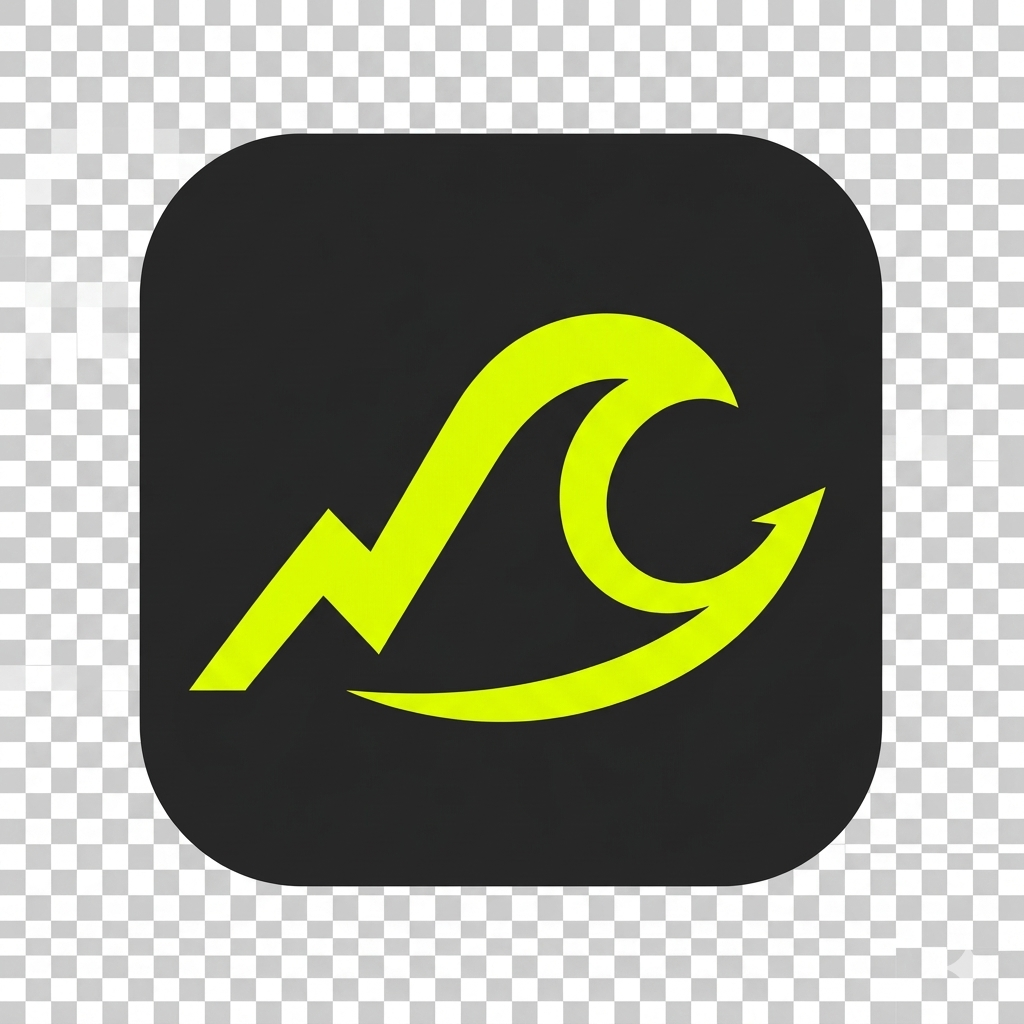
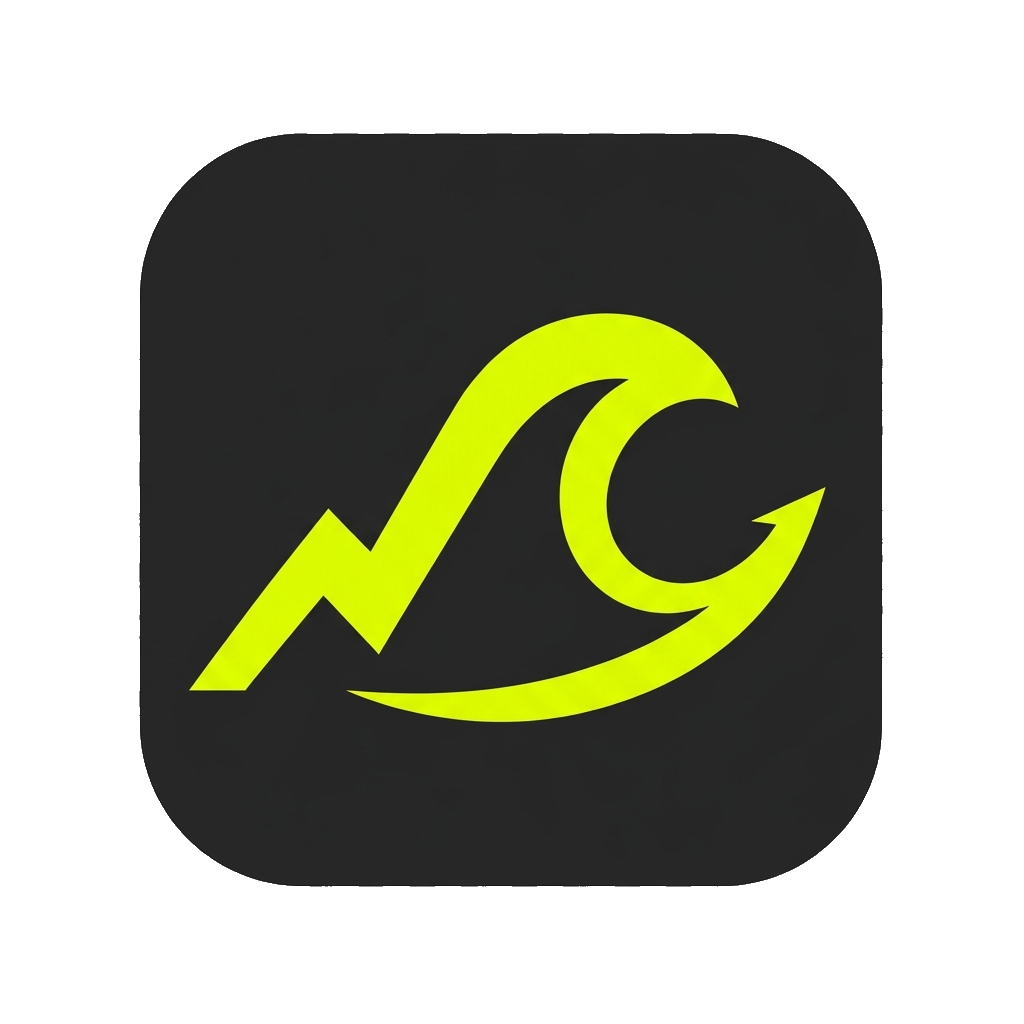
Add branded 1200x630 OG share image (PNG) + clean baked checkerboard from mark
The uploaded brand-mark.png had a baked-in checkerboard (fake transparency) in
its corners; keyed it out to real transparency so the header/footer/favicon are
clean. Composed a 1200x630 og-money-tide.png (mark + 钱潮 MONEY TIDE lockup +
tagline on ink/lime) and pointed default_og_image() + category fallback at it
(SVG og:image is ignored by 知乎/Telegram/X). Added og:image width/height.
Includes the Pillow compose/clean scripts under scripts/.

Changed region(s): [[0.0, 0.0, 1.0, 1.0]]

diff --git a/scripts/compose_og.py b/scripts/compose_og.py
@@ -1,0 +1,75 @@
+# -*- coding: utf-8 -*-
+"""Compose the 1200x630 OG share image for 钱潮 Money Tide from the brand mark.
+Black canvas + lime accent, the mark on the left, stacked bilingual lockup +
+tagline. Run: python scripts/compose_og.py
+"""
+import os
+from PIL import Image, ImageDraw, ImageFont
+
+BASE = os.path.dirname(os.path.dirname(os.path.abspath(__file__)))
+IMG_DIR = os.path.join(BASE, "public", "assets", "img")
+MARK = os.path.join(IMG_DIR, "brand-mark.png")
+OUT = os.path.join(IMG_DIR, "og-money-tide.png")
+
+INK = (10, 10, 10, 255)
+LIME = (220, 255, 0, 255)
+WHITE = (245, 245, 240, 255)
+GREY = (175, 175, 175, 255)
+
+W, H = 1200, 630
+YAHEI_BD = r"C:\Windows\Fonts\msyhbd.ttc"
+YAHEI = r"C:\Windows\Fonts\msyh.ttc"
+
+
+def font(path, size):
+    return ImageFont.truetype(path, size)
+
+
+def text_w(draw, s, f):
+    b = draw.textbbox((0, 0), s, font=f)
+    return b[2] - b[0]
+
+
+def main():
+    canvas = Image.new("RGBA", (W, H), INK)
+    draw = ImageDraw.Draw(canvas)
+
+    # Bottom lime accent bar (brand signature).
+    draw.rectangle([0, H - 14, W, H], fill=LIME)
+
+    # --- Brand mark on the left (alpha-composited so corners stay ink, never transparent) ---
+    m = 300
+    mark = Image.open(MARK).convert("RGBA").resize((m, m), Image.LANCZOS)
+    mark_x, mark_y = 90, (H - m) // 2 - 7
+    canvas.alpha_composite(mark, (mark_x, mark_y))
+
+    # --- Text block on the right ---
+    tx = mark_x + m + 70  # 460
+    f_cn = font(YAHEI_BD, 104)       # 钱潮
+    f_en = font(YAHEI_BD, 40)        # MONEY TIDE
+    f_tag = font(YAHEI_BD, 44)       # tagline
+    f_desc = font(YAHEI, 29)         # description
+    f_url = font(YAHEI_BD, 27)       # url
+
+    # Line 1: 钱潮 (large)
+    draw.text((tx, 120), "钱潮", font=f_cn, fill=WHITE)
+    cn_w = text_w(draw, "钱潮", f_cn)
+    # MONEY TIDE next to it, baseline-aligned lower
+    draw.text((tx + cn_w + 24, 196), "MONEY TIDE", font=f_en, fill=LIME)
+
+    # Lime underline accent under the lockup
+    draw.rectangle([tx + 2, 252, tx + 300, 263], fill=LIME)
+
+    # Tagline
+    draw.text((tx, 300), "每天 5 分钟，看懂全球市场", font=f_tag, fill=WHITE)
+    # Description
+    draw.text((tx, 372), "AI 驱动的全球财经 · 科技 · 商业简报", font=f_desc, fill=GREY)
+    # URL near bottom
+    draw.text((tx, 500), "moneytidecn.avanturadeals.com", font=f_url, fill=GREY)
+
+    canvas.convert("RGB").save(OUT, "PNG", optimize=True)
+    print("Wrote", OUT, (W, H))
+
+
+if __name__ == "__main__":
+    main()

diff --git a/scripts/clean_mark.py b/scripts/clean_mark.py
@@ -1,0 +1,32 @@
+# -*- coding: utf-8 -*-
+"""Clean brand-mark.png: the source has a baked-in checkerboard (fake
+transparency) in the corners. Key out the light grey/white checker -> real
+transparency, keeping the dark rounded tile + lime mark. Overwrites in place.
+Run: python scripts/clean_mark.py
+"""
+import os
+from PIL import Image
+
+BASE = os.path.dirname(os.path.dirname(os.path.abspath(__file__)))
+SRC = os.path.join(BASE, "public", "assets", "img", "brand-mark.png")
+
+
+def main():
+    im = Image.open(SRC).convert("RGBA")
+    px = im.load()
+    w, h = im.size
+    keyed = 0
+    for y in range(h):
+        for x in range(w):
+            r, g, b, a = px[x, y]
+            mx, mn = max(r, g, b), min(r, g, b)
+            # near-grayscale AND bright = the checkerboard (≈203 grey / 255 white)
+            if (mx - mn) < 28 and mn > 150:
+                px[x, y] = (r, g, b, 0)
+                keyed += 1
+    im.save(SRC, "PNG", optimize=True)
+    print("Keyed", keyed, "checker px -> transparent. Saved", SRC, im.size)
+
+
+if __name__ == "__main__":
+    main()

diff --git a/views/layout.php b/views/layout.php
@@ -41,6 +41,12 @@ $jsVersion  = @filemtime(APP_BASE_PATH . '/public/assets/js/app.js')  ?: '1';
     <meta property="og:description" content="<?= e($pageDescription) ?>">
     <meta property="og:url" content="<?= e($canonicalUrl) ?>">
     <meta property="og:image" content="<?= e($ogImage) ?>">
+    <?php $ogIsDefault = str_contains((string) $ogImage, 'og-money-tide.png'); ?>
+    <?php if ($ogIsDefault): ?>
+        <meta property="og:image:width" content="1200">
+        <meta property="og:image:height" content="630">
+        <meta property="og:image:type" content="image/png">
+    <?php endif; ?>
     <meta name="twitter:card" content="summary_large_image">
     <meta name="twitter:title" content="<?= e($pageTitle) ?>">
     <meta name="twitter:description" content="<?= e($pageDescription) ?>">

diff --git a/src/repositories.php b/src/repositories.php
@@ -254,7 +254,7 @@ function category_fallback_image(string $categorySlug): string
         'wealth' => 'assets/img/hero-wealth.svg',
     ];
 
-    return canonical_url($map[$categorySlug] ?? 'assets/img/og-money-tide.svg');
+    return canonical_url($map[$categorySlug] ?? 'assets/img/og-money-tide.png');
 }
 
 function db_articles(?string $categorySlug = null): ?array

diff --git a/public/health.php b/public/health.php
@@ -13,7 +13,7 @@ if (isset($_GET['oc']) && function_exists('opcache_reset')) {
 echo json_encode([
     'status' => 'ok',
     'app' => 'money-tide',
-    'release' => 'brand-logo-mark',
+    'release' => 'og-share-image-png',
     'opcache_flushed' => $flushed,
     'checked_at' => gmdate('c'),
 ], JSON_UNESCAPED_SLASHES);

diff --git a/src/seo.php b/src/seo.php
@@ -9,7 +9,8 @@ function canonical_url(string $path = ''): string
 
 function default_og_image(): string
 {
-    return app_url('assets/img/og-money-tide.svg');
+    // PNG, not SVG — social platforms (知乎/Telegram/X/WeChat) ignore SVG og:image.
+    return app_url('assets/img/og-money-tide.png');
 }
 
 /**
